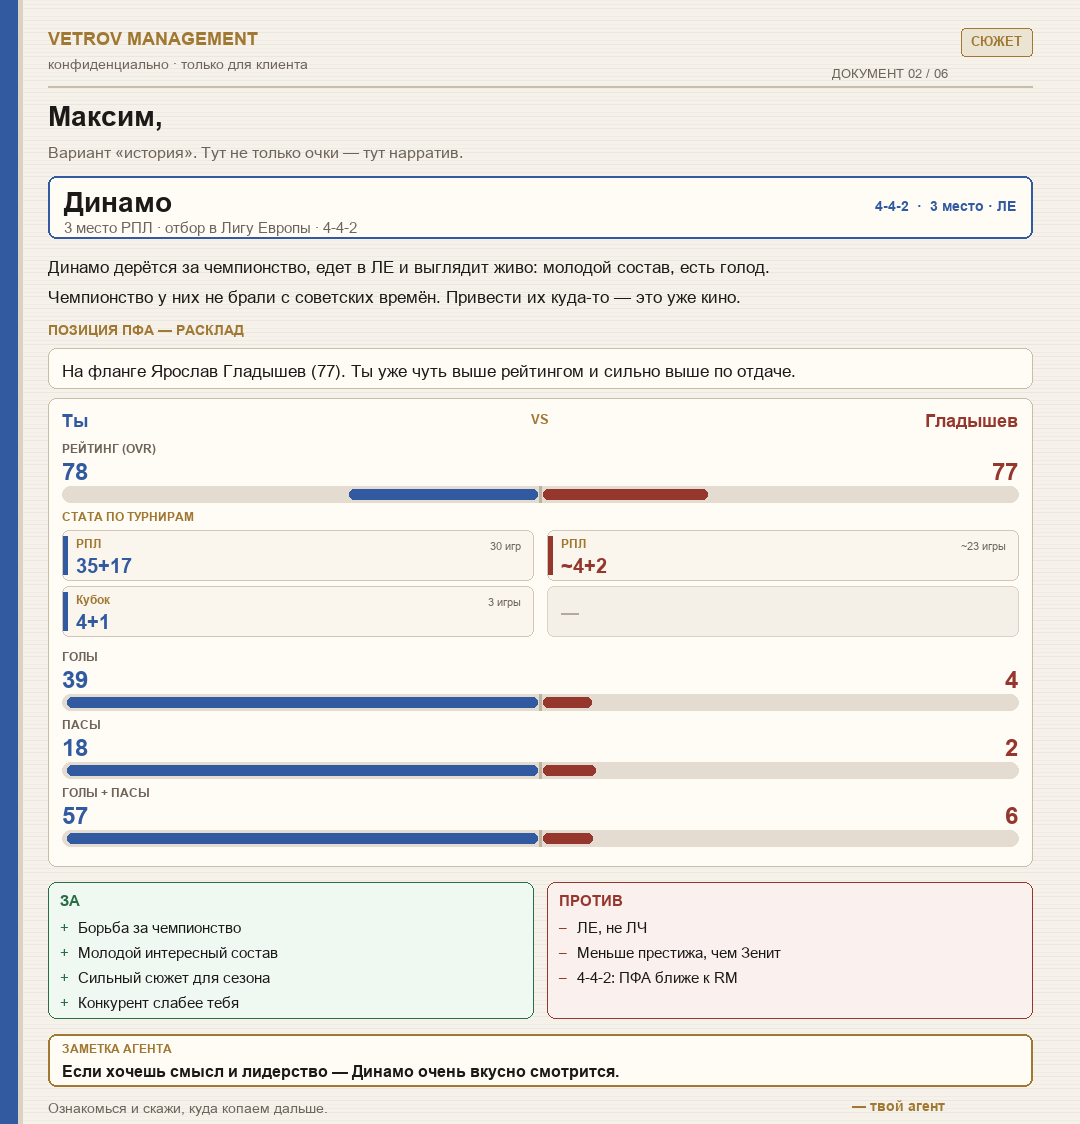
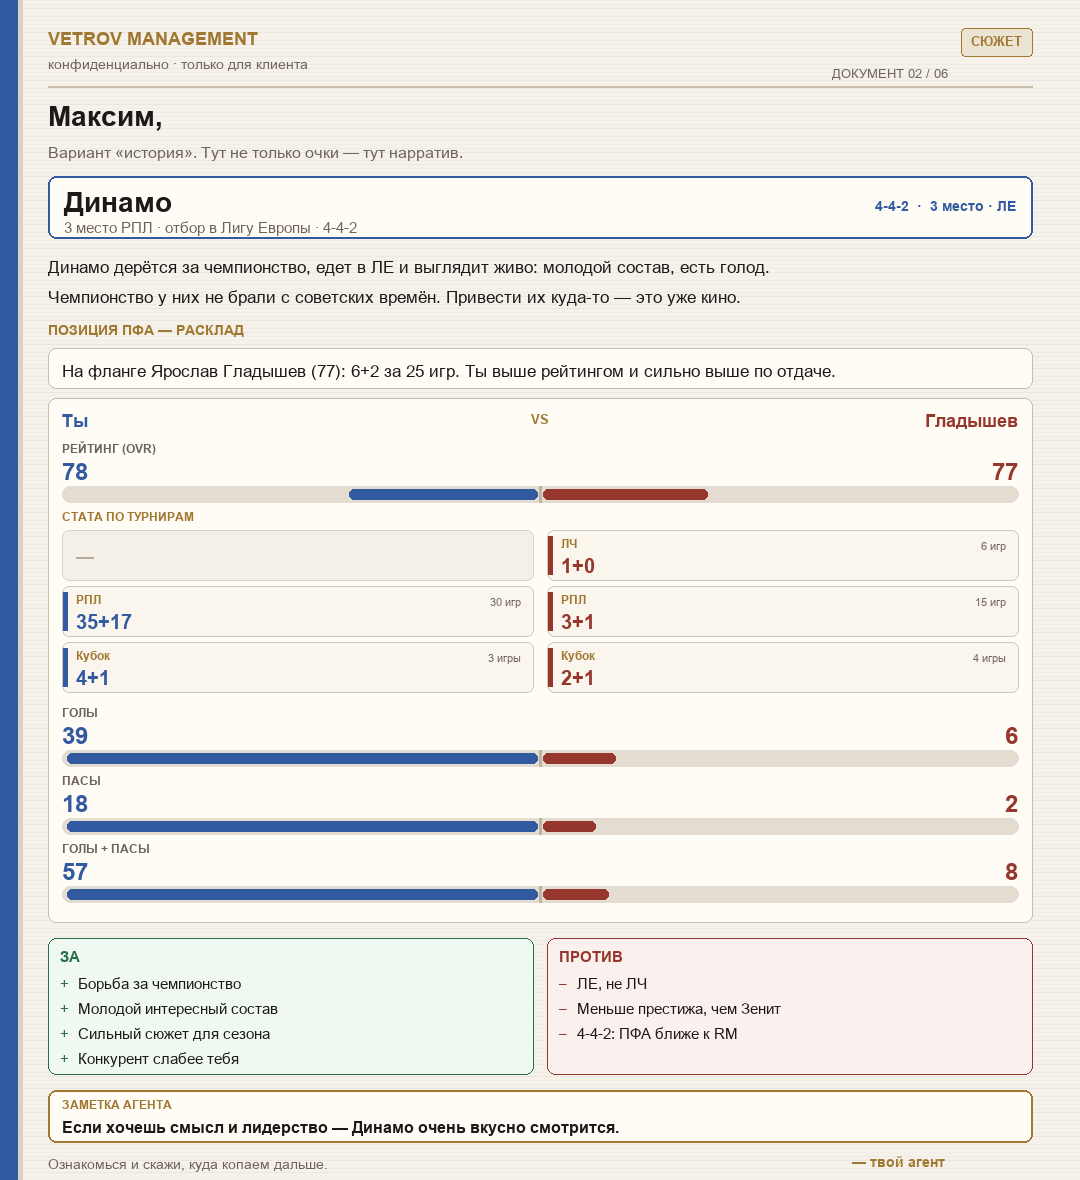
Update competitor tournament stats from Live Editor numbers.
Correct Enrique/Gladyshev/Mantuan/Solari breakdowns and season totals on the poll cards.

Changed region(s): [[0.0306, 0.0, 0.9472, 0.9964]]

diff --git a/career_poll_reports/generate_career_poll_reports.py b/career_poll_reports/generate_career_poll_reports.py
@@ -462,7 +462,7 @@ DOSSIERS = [
             "Но ты идёшь не в пустой фланг: там Луис Энрике (84). Рейтингом он выше, цифрами — нет.",
         ],
         "competition_lines": [
-            "На ПФА сейчас Энрике. Место в основе придётся отбирать, Зенит любит покупать топов.",
+            "На ПФА сейчас Энрике: 14+10 за сезон (ЛЧ / РПЛ / кубок). Место в основе придётся отбирать.",
         ],
         "vs": (
             YOU_VS,
@@ -473,9 +473,9 @@ DOSSIERS = [
                 "a": 10,
                 "ga": 24,
                 "tours": [
-                    {"comp": "ЛЧ", "stat": "2+1", "apps": ""},
-                    {"comp": "РПЛ", "stat": "3+3", "apps": ""},
-                    {"comp": "Кубок", "stat": "9+6", "apps": ""},
+                    {"comp": "ЛЧ", "stat": "2+1", "apps": "8 игр"},
+                    {"comp": "РПЛ", "stat": "9+6", "apps": "28 игр"},
+                    {"comp": "Кубок", "stat": "3+3", "apps": "6 игр"},
                 ],
             },
         ),
@@ -507,18 +507,20 @@ DOSSIERS = [
             "Чемпионство у них не брали с советских времён. Привести их куда-то — это уже кино.",
         ],
         "competition_lines": [
-            "На фланге Ярослав Гладышев (77). Ты уже чуть выше рейтингом и сильно выше по отдаче.",
+            "На фланге Ярослав Гладышев (77): 6+2 за 25 игр. Ты выше рейтингом и сильно выше по отдаче.",
         ],
         "vs": (
             YOU_VS,
             {
                 "name": "Гладышев",
                 "ovr": "77",
-                "g": 4,
+                "g": 6,
                 "a": 2,
-                "ga": 6,
+                "ga": 8,
                 "tours": [
-                    {"comp": "РПЛ", "stat": "~4+2", "apps": "~23 игры"},
+                    {"comp": "ЛЧ", "stat": "1+0", "apps": "6 игр"},
+                    {"comp": "РПЛ", "stat": "3+1", "apps": "15 игр"},
+                    {"comp": "Кубок", "stat": "2+1", "apps": "4 игры"},
                 ],
             },
         ),
@@ -550,7 +552,7 @@ DOSSIERS = [
             "Конкуренты на бумаге есть, по игре — почти нет.",
         ],
         "competition_lines": [
-            "Бонгонда (74) и Солари (80): один слабый рейтингом, второй — провальной статой (0+2).",
+            "Солари (80): 0+2 за 24. Бонгонда (74) живее — 3+7 за 21, но рейтингом слабее.",
         ],
         "vs": (
             YOU_VS,
@@ -561,8 +563,8 @@ DOSSIERS = [
                 "a": 2,
                 "ga": 2,
                 "tours": [
-                    {"comp": "Солари", "stat": "0+2", "apps": "80 OVR"},
-                    {"comp": "Бонгонда", "stat": "4+6", "apps": "74 OVR"},
+                    {"comp": "РПЛ", "stat": "0+2", "apps": "20 игр"},
+                    {"comp": "Кубок", "stat": "0+0", "apps": "4 игры"},
                 ],
             },
         ),
